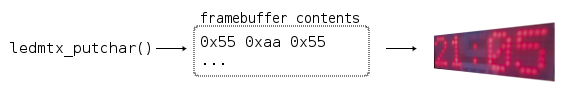
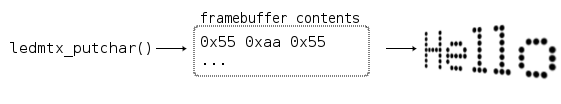
[doc] Update `README.md`

Changed region(s): [[0.7576, 0.2019, 1.0, 0.7788]]

diff --git a/README.md b/README.md
@@ -1,12 +1,12 @@
 # libledmtx: a library to drive LED dot-matrix displays written in PIC18 assembler
 
+![libledmtx](doc/libledmtx-720.png)
+
 ## Introduction
 The libledmtx project was developed as a subproject of [p18clock](https://github.com/jalopezg-git/p18clock).
 The library is completely written in PIC18 assembler and follows the call convention of the [SDCC](http://sdcc.sourceforge.net/) pic16 port.
 Exported routines are meant to be called in by C code.
 If you intend to issue calls from assembler, make sure that you follow the [pic16 port](http://sdcc.sourceforge.net/doc/sdccman.pdf) call convention.
-
-![libledmtx driving a LED display](doc/demo.jpg)
 
 ## Building libledmtx
 Before compiling the library make sure you have this installed:
